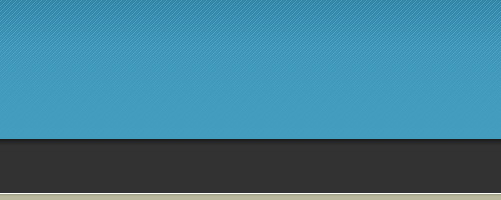
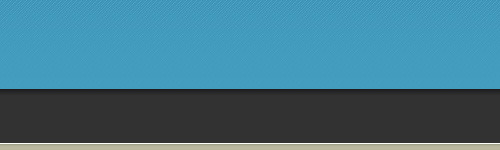
Update style

Changed region(s): [[0.0, 0.5867, 1.0, 0.6933], [0.0, 0.0, 1.0, 0.08], [0.0, 0.9333, 1.0, 0.9867]]

diff --git a/www/media/stylesheets/styles.css b/www/media/stylesheets/styles.css
@@ -24,8 +24,8 @@ body {
 /* ___________________________________________________________________ Header */
 h1#header {
     background:  url(../images/gauffr_logo.png) right 10px no-repeat;
-    padding: 40px 0 0 0;
-    height: 100px;
+    padding: 15px 0 0 0;
+    height: 73px;
     color: #fff;
     font-size: 3em;
 }
@@ -82,7 +82,7 @@ ul#menu li.first a {
 /* ___________________________________________________________________ Footer */
 #footer {
     background: #323232 url(../images/bg_footer.jpg) 0 0 repeat-x;
-    height:100px;
+    height:70px;
     margin:0 auto;
     padding:0;
     width:100%;
@@ -92,7 +92,7 @@ ul#menu li.first a {
     color: #C7DAE5;
     font-size: 1em;
     margin: 0;
-    padding: 30px 0 0;
+    padding: 15px 0 0;
     text-align: center;
 }
 
